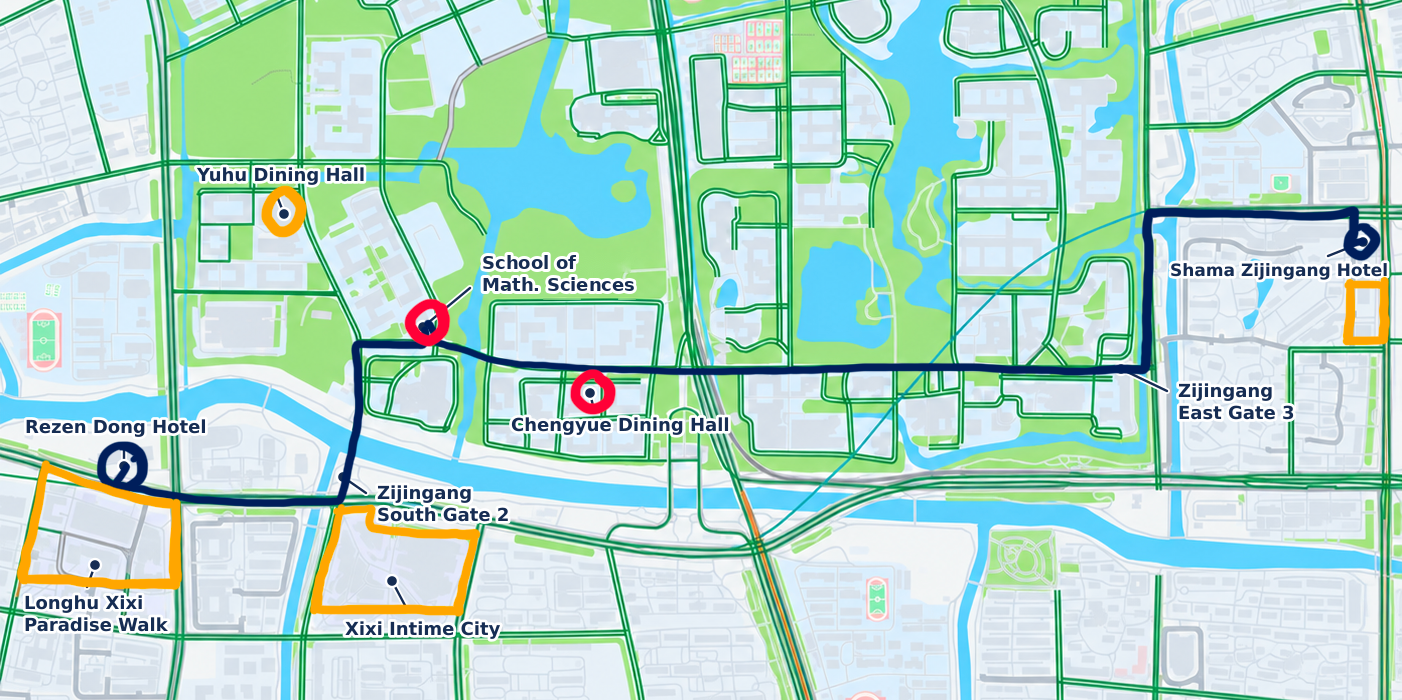
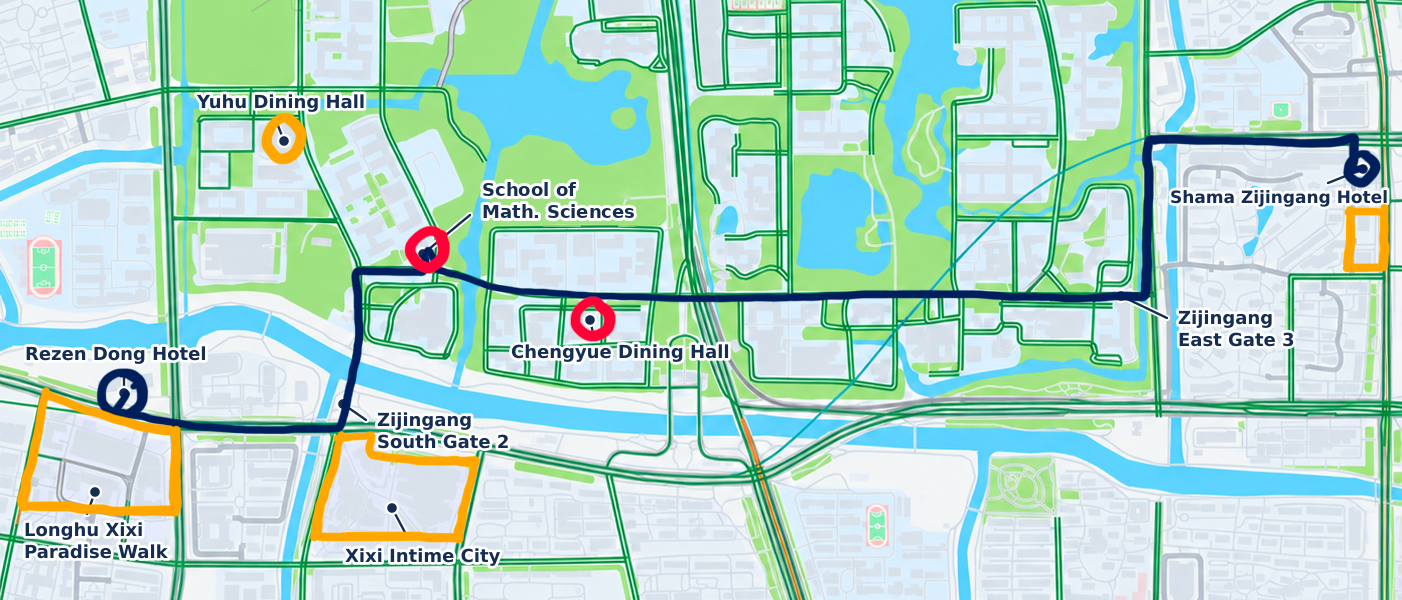
update

diff --git a/events/AGHZ.html b/events/AGHZ.html
@@ -208,10 +208,16 @@
     <main>
 
 
-		<details>
+		<details open>
             <summary><h5>Venue information</h5></summary>
             <img src="map.png" style="width: 100%; margin: 1rem 0 0 0">
             <div class="info-section">
+                <div class="info-card">
+                <h4>Campus access</h4>
+                    <ul>
+                        <li>Please remember to always bring your ID / passport for campus access.</li>
+                    </ul>
+                </div>
                 <div class="info-card">
                 <h4>Lectures</h4>
                     <ul>
@@ -230,12 +236,13 @@
                     </ul>
                 </div>
                 <div class="info-card">
-                    <h4>Food places <span style="color:#D16F13;">(orange in the map)</span></h4>
+                    <h4>Dinner options <span style="color:#D16F13;">(orange in the map)</span></h4>
                     <ul>
-                        <li><strong>Yuhu and Chengyue Dining Halls</strong> serve dinner; counters on 2nd floor only take campus card payment though</li>
-                        <li><strong>Longhu Xixi Paradise Walk</strong> is the best area for restaurants</li>
+                        <li>On campus, dining halls serve dinner, but 2nd floor counters only take campus card payment</li>
+                        <li>Best nearby area for restaurants is <strong>Longhu Xixi Paradise Walk</strong></li>
                         <li><strong>Xixi Intime City</strong> is a closer alternative but less lively</li>
-                        <li>A few simple restaurants can also be found next to Shama Hotel</li>
+                        <li>Street food places can be found along <strong>Longyu Street</strong> north of campus <strong><a href="map_full.png" style="color:var(--red-accent); text-decoration: none;">(click here)</a></strong>. Further restaurants can be found east from there</li>
+                        <li>Simple restaurants can be found next to Shama Hotel</li>
                     </ul>
                 </div>
             </div>
